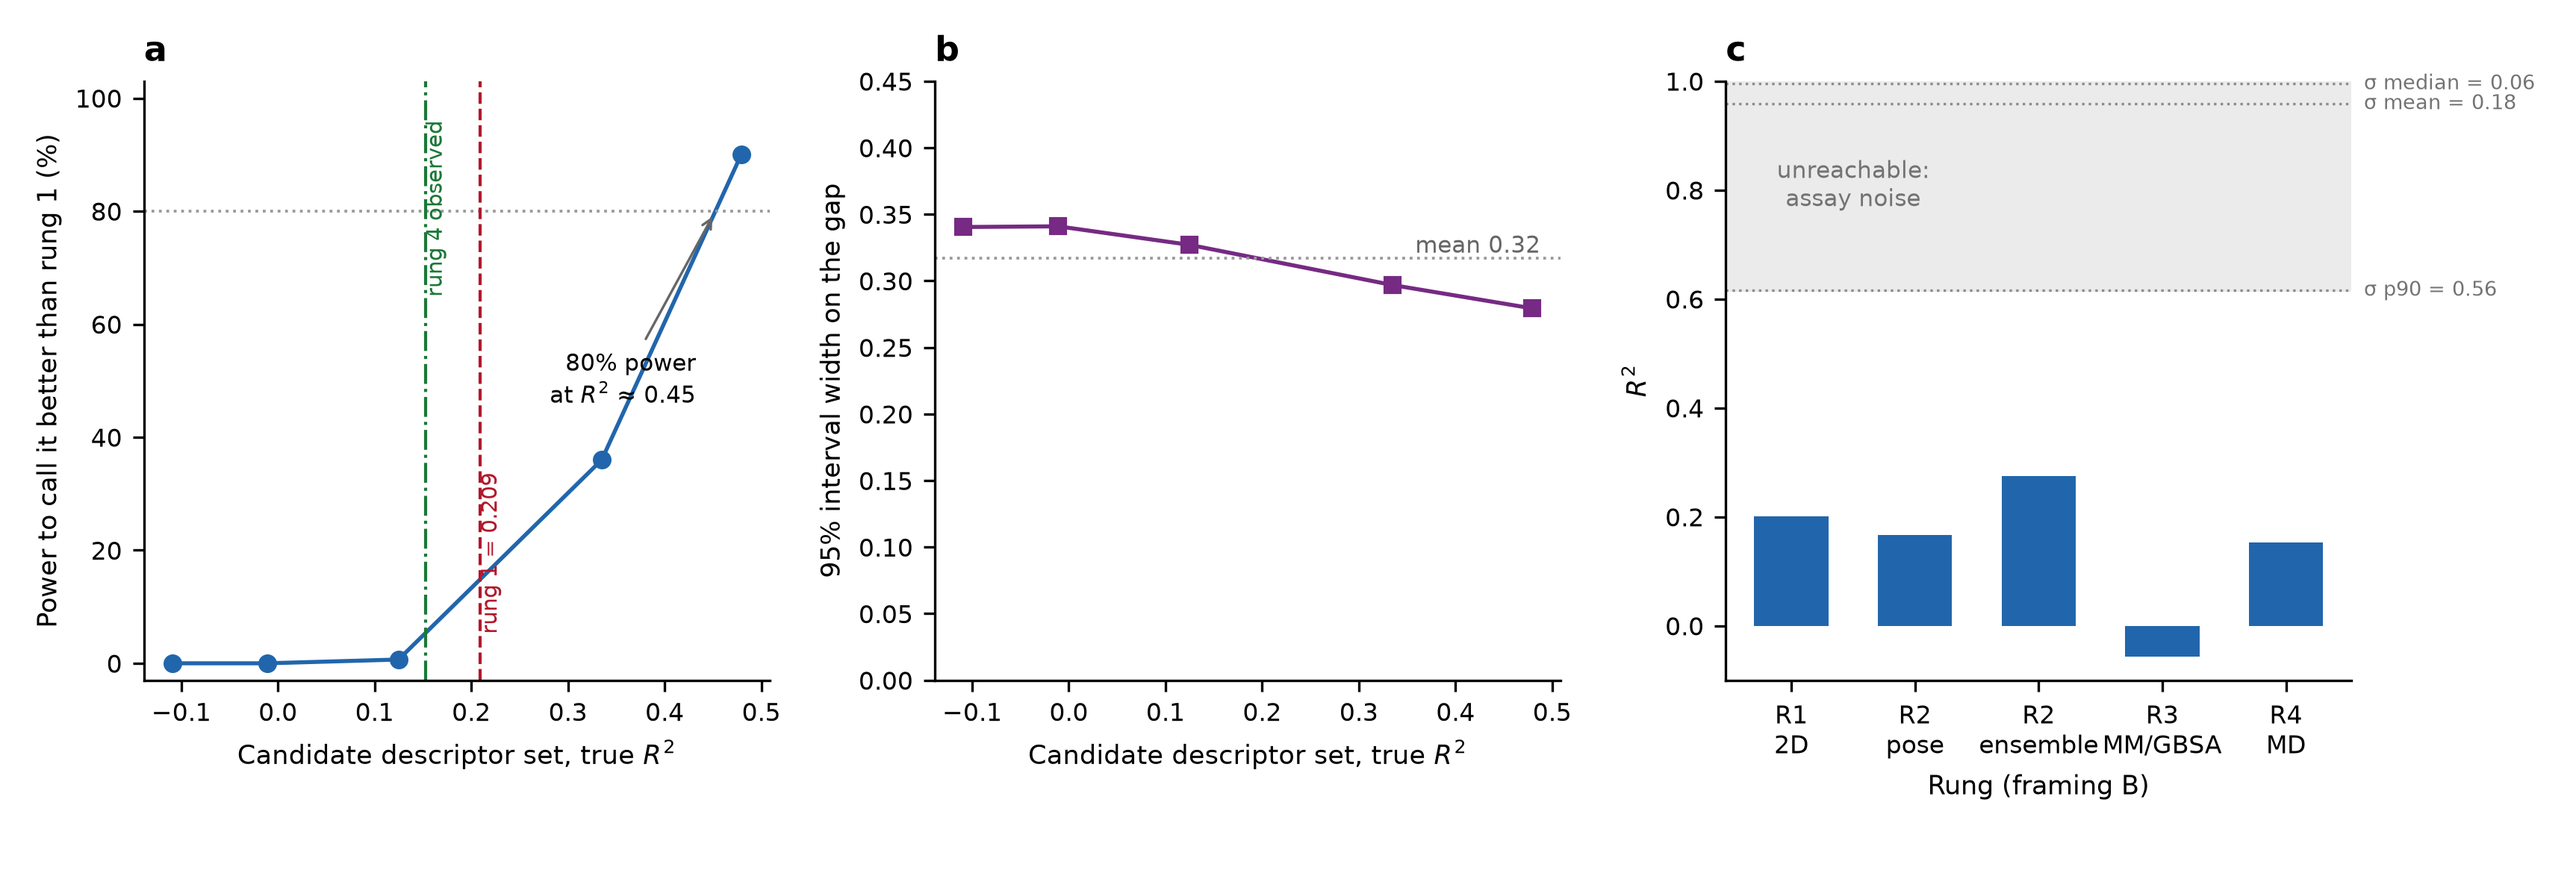
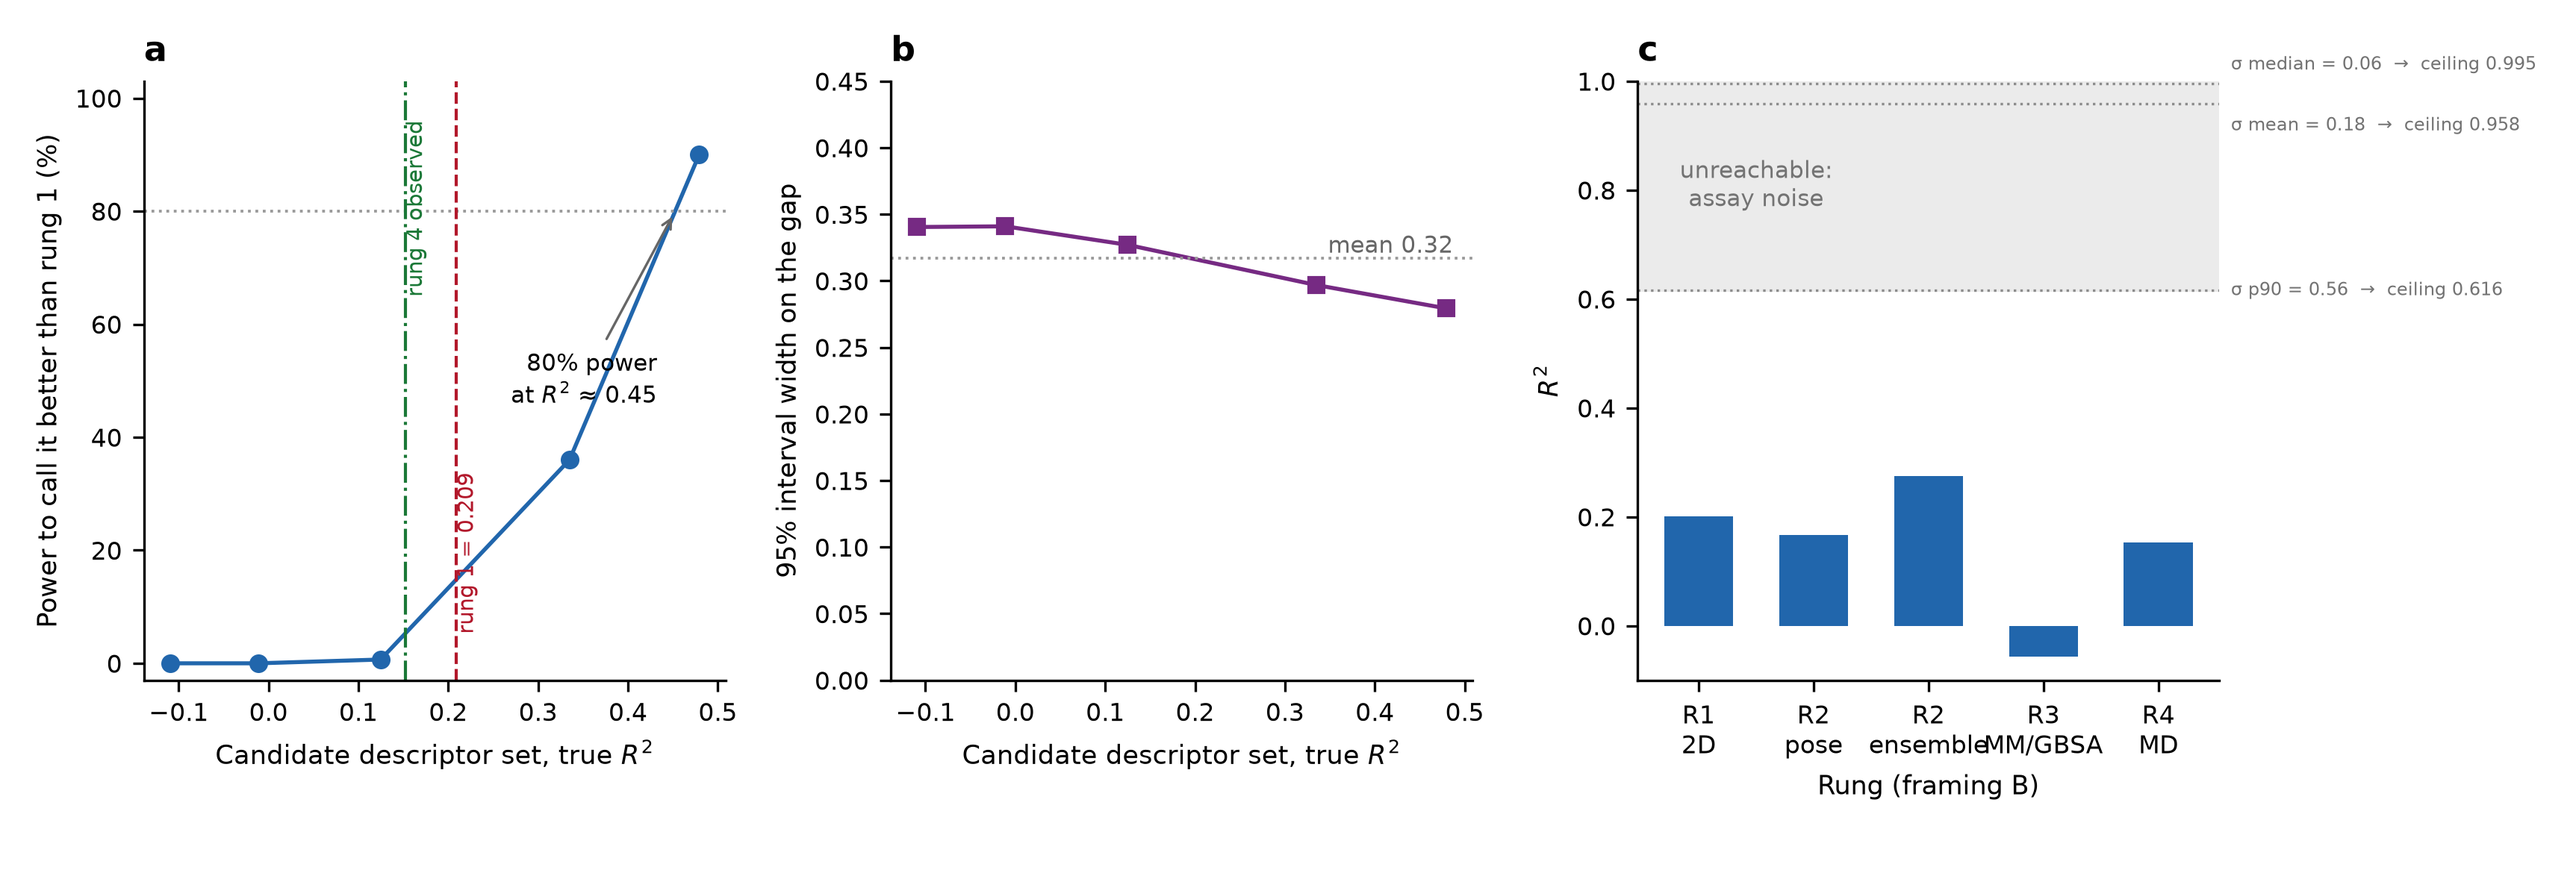
Label each ceiling line in Figure 9(c) with the ceiling it marks
The lines sit at the ceiling each spread implies, not at the spread, so the
smallest sigma produced the highest line and the panel read as an error. Each
label now carries both, as 'sigma p90 = 0.56 -> ceiling 0.616'.

The median and mean ceilings are 0.04 apart, so their labels are offset clear
of each other, and the ceiling is shown to three decimals because 0.995
rounded to 1.00 reads as a perfect ceiling.

diff --git a/scripts/fig_power.py b/scripts/fig_power.py
@@ -101,8 +101,15 @@ def main() -> None:
             va="center", fontsize=7.5, color="0.45")
     for _, r in nc.iterrows():
         ax.axhline(float(r.ceiling_r2), color="0.55", lw=0.8, ls=":")
-        ax.text(1.02, float(r.ceiling_r2), f"σ {r.sigma_kind} = {r.sigma:.2f}", fontsize=6.5,
-                color="0.45", va="center", transform=ax.get_yaxis_transform())
+        # The line sits at the CEILING, not at sigma. Labelling it with sigma alone made
+        # the smallest spread produce the highest line, which reads as an error. The
+        # median and mean ceilings are 0.04 apart, so their labels are pushed clear of
+        # each other rather than left to overlap.
+        dy = {"median": 0.035, "mean": -0.040}.get(r.sigma_kind, 0.0)
+        ax.text(1.02, float(r.ceiling_r2) + dy,
+                f"σ {r.sigma_kind} = {r.sigma:.2f}  →  ceiling {r.ceiling_r2:.3f}",
+                fontsize=5.8, color="0.45", va="center",
+                transform=ax.get_yaxis_transform())
     if ladder is not None:
         b = ladder[ladder.framing == "B"]
         xs = np.arange(len(b))
